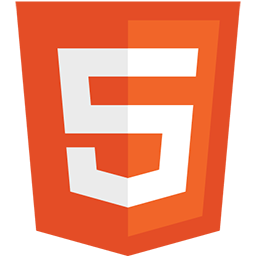
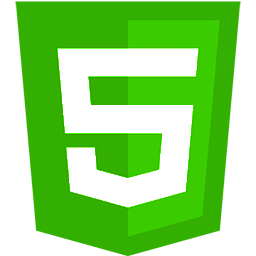
Add files via upload

diff --git a/partials/mobile.css b/partials/mobile.css
@@ -47,13 +47,13 @@ body {
           transition: 0.1s;
           position: relative; }
         body .container .heading .ham-but .first-line {
-          background-color: #288f00; }
+          background-color: #48ff00; }
         body .container .heading .ham-but .second-line {
           top: 7px;
-          background-color: #288f00; }
+          background-color: #48ff00; }
         body .container .heading .ham-but .third-line {
           top: 14px;
-          background-color: #288f00; }
+          background-color: #48ff00; }
         body .container .heading .ham-but .change1 {
           top: 8px;
           transform: rotate(45deg); }
@@ -61,7 +61,7 @@ body {
           transform: rotate(-45deg);
           top: 7px; }
     body .container .vm {
-      background: url("../img/logo-green.png");
+      /*background: url("../img/logo-green.png");*/
       background-size: cover;
       position: absolute;
       bottom: 18%;
@@ -111,22 +111,22 @@ body {
         background-color: rgba(31, 31, 31, 0.8); }
         body .container .content .home-page-content .name {
           display: none;
-          font: 400 3rem 'Roboto Mono', monospace; }
+          font: 400 2.5rem 'Roboto Mono', monospace; }
         body .container .content .home-page-content .name-2 {
-          font: 400 3rem 'Roboto Mono', monospace; }
+          font: 400 2.5rem 'Roboto Mono', monospace; }
         body .container .content .home-page-content .last-name {
           display: none;
-          font: 400 3rem 'Roboto Mono', monospace; }
+          font: 400 2.5rem 'Roboto Mono', monospace; }
         body .container .content .home-page-content .last-name-2 {
-          font: 400 3rem 'Roboto Mono', monospace; }
+          font: 400 2.5rem 'Roboto Mono', monospace; }
         body .container .content .home-page-content .web-developer {
           display: none;
-          font: 400 1.8rem 'Roboto Mono', monospace; }
+          font: 400 1.5rem 'Roboto Mono', monospace; }
         body .container .content .home-page-content .web-developer-2 {
-          font: 400 1.8rem 'Roboto Mono', monospace; }
+          font: 400 1.5rem 'Roboto Mono', monospace; }
         body .container .content .home-page-content .flashing {
           animation: flashing 1s infinite;
-          font: 400 3rem 'Roboto Mono', monospace; }
+          font: 400 2.5rem 'Roboto Mono', monospace; }
 @keyframes flashing {
   0% {
     opacity: 0%; }
@@ -260,14 +260,14 @@ body {
           height: 7%;
           transition: 1s; }
           body .container .content .contact-page .email img, body .container .content .contact-page .tel img, body .container .content .contact-page .link img, body .container .content .contact-page .insta img {
-            width: 10%;
+            width: 7%;
             float: left;
             margin: 0 0 0 10%; }
           body .container .content .contact-page .email p, body .container .content .contact-page .tel p, body .container .content .contact-page .link p, body .container .content .contact-page .insta p {
-            font: 200 0.8rem 'Roboto Mono', monospace;
+            font: 200 0.7rem 'Roboto Mono', monospace;
             float: left;
             color: #48ff00;
-            margin: 3% 0 0 10%; }
+            margin: 1% 0 0 10%; }
         body .container .content .contact-page .tel, body .container .content .contact-page .link, body .container .content .contact-page .insta {
           margin-top: 3%; }
 

diff --git a/scss/style.css b/scss/style.css
@@ -50,13 +50,13 @@ body {
           transition: 0.1s;
           position: relative; }
         body .container .heading .ham-but .first-line {
-          background-color: #288f00; }
+          background-color: #48ff00; }
         body .container .heading .ham-but .second-line {
           top: 7px;
-          background-color: #288f00; }
+          background-color: #48ff00; }
         body .container .heading .ham-but .third-line {
           top: 14px;
-          background-color: #288f00; }
+          background-color: #48ff00; }
         body .container .heading .ham-but .change1 {
           top: 8px;
           transform: rotate(45deg); }
@@ -64,7 +64,7 @@ body {
           transform: rotate(-45deg);
           top: 7px; }
     body .container .vm {
-      background: url("../img/logo-green.png");
+      /*background: url("../img/logo-green.png");*/
       background-size: cover;
       position: absolute;
       bottom: 18%;
@@ -114,22 +114,22 @@ body {
         background-color: rgba(31, 31, 31, 0.8); }
         body .container .content .home-page-content .name {
           display: none;
-          font: 400 3rem 'Roboto Mono', monospace; }
+          font: 400 2.5rem 'Roboto Mono', monospace; }
         body .container .content .home-page-content .name-2 {
-          font: 400 3rem 'Roboto Mono', monospace; }
+          font: 400 2.5rem 'Roboto Mono', monospace; }
         body .container .content .home-page-content .last-name {
           display: none;
-          font: 400 3rem 'Roboto Mono', monospace; }
+          font: 400 2.5rem 'Roboto Mono', monospace; }
         body .container .content .home-page-content .last-name-2 {
-          font: 400 3rem 'Roboto Mono', monospace; }
+          font: 400 2.5rem 'Roboto Mono', monospace; }
         body .container .content .home-page-content .web-developer {
           display: none;
-          font: 400 1.8rem 'Roboto Mono', monospace; }
+          font: 400 1.5rem 'Roboto Mono', monospace; }
         body .container .content .home-page-content .web-developer-2 {
-          font: 400 1.8rem 'Roboto Mono', monospace; }
+          font: 400 1.5rem 'Roboto Mono', monospace; }
         body .container .content .home-page-content .flashing {
           animation: flashing 1s infinite;
-          font: 400 3rem 'Roboto Mono', monospace; }
+          font: 400 2.5rem 'Roboto Mono', monospace; }
 @keyframes flashing {
   0% {
     opacity: 0%; }
@@ -263,14 +263,14 @@ body {
           height: 7%;
           transition: 1s; }
           body .container .content .contact-page .email img, body .container .content .contact-page .tel img, body .container .content .contact-page .link img, body .container .content .contact-page .insta img {
-            width: 10%;
+            width: 7%;
             float: left;
             margin: 0 0 0 10%; }
           body .container .content .contact-page .email p, body .container .content .contact-page .tel p, body .container .content .contact-page .link p, body .container .content .contact-page .insta p {
-            font: 200 0.8rem 'Roboto Mono', monospace;
+            font: 200 0.7rem 'Roboto Mono', monospace;
             float: left;
             color: #48ff00;
-            margin: 3% 0 0 10%; }
+            margin: 1% 0 0 10%; }
         body .container .content .contact-page .tel, body .container .content .contact-page .link, body .container .content .contact-page .insta {
           margin-top: 3%; }
 

diff --git a/partials/mobile.scss b/partials/mobile.scss
@@ -51,15 +51,15 @@ body  {
 					position: relative;
 				}
 				.first-line {
-					background-color: #288f00;
+					background-color: #48ff00;
 				}
 				.second-line {
 					top: 7px;
-					background-color: #288f00;
+					background-color: #48ff00;
 				}
 				.third-line {
 					top: 14px;
-					background-color: #288f00;
+					background-color: #48ff00;
 				}
 				.change1 {
 					top: 8px;
@@ -73,7 +73,7 @@ body  {
 			}
 		}
 		.vm {
-			background: url("../img/logo-green.png");
+			/*background: url("../img/logo-green.png");*/
 			background-size: cover;
 			position: absolute;
 			bottom: 18%;
@@ -130,30 +130,30 @@ body  {
 				background-color: rgba(31, 31, 31, 0.8);
 				.name {
 					display: none;
-					font: 400 3rem 'Roboto Mono', monospace;
+					font: 400 2.5rem 'Roboto Mono', monospace;
 				}
 				.name-2 {
-					font: 400 3rem 'Roboto Mono', monospace;
+					font: 400 2.5rem 'Roboto Mono', monospace;
 				}
 
 				.last-name {
 					display: none;
-					font: 400 3rem 'Roboto Mono', monospace;
+					font: 400 2.5rem 'Roboto Mono', monospace;
 				}
 				.last-name-2 {
-					font: 400 3rem 'Roboto Mono', monospace;
+					font: 400 2.5rem 'Roboto Mono', monospace;
 				}
 
 				.web-developer {
 					display: none;
-					font: 400 1.8rem 'Roboto Mono', monospace;
+					font: 400 1.5rem 'Roboto Mono', monospace;
 				}
 				.web-developer-2 {
-					font: 400 1.8rem 'Roboto Mono', monospace;
+					font: 400 1.5rem 'Roboto Mono', monospace;
 				}
 				.flashing {
 					animation: flashing 1s infinite;
-					font: 400 3rem 'Roboto Mono', monospace;
+					font: 400 2.5rem 'Roboto Mono', monospace;
 				}
 				@keyframes flashing {
 					0% {opacity: 0%;}
@@ -319,15 +319,15 @@ body  {
 					transition: 1s;
 
 					img {
-						width: 10%;
+						width: 7%;
 						float: left;
 						margin: 0 0 0 10%;
 					}
 					p {
-						font: 200 0.8rem 'Roboto Mono', monospace;
+						font: 200 0.7rem 'Roboto Mono', monospace;
 						float: left;
 						color: #48ff00;
-						margin: 3% 0 0 10%;
+						margin: 1% 0 0 10%;
 					}
 				}
 				.tel, .link, .insta {

diff --git a/html/nav.html b/html/nav.html
@@ -1,28 +1,28 @@
 <div class="nav-bar" id="nav-bar">
 
 
-		<div class="nav-line" id="Home">
+		<div class="nav-line" id="home">
 			<img src="icons/Homeon.png">
 			<p>Home</p>
 		</div>	
 
 		
-		<div class="nav-line" id="About">
+		<div class="nav-line" id="about">
 			<img src="icons/About.png">
 			<p>About me</p>
 		</div>
 
-		<div class="nav-line" id="Skills">
+		<div class="nav-line" id="skills">
 			<img src="icons/Skills.png">
 			<p>Skills</p>
 		</div>
 
-		<div class="nav-line" id="My work">
+		<div class="nav-line" id="my work">
 			<img src="icons/My work.png">
 			<p>My work</p>
 		</div>
 
-		<div class="nav-line" id="Contact">
+		<div class="nav-line" id="contact">
 			<img src="icons/Contact.png">
 			<p>Contact</p>
 		</div>

diff --git a/html/bottom.html b/html/bottom.html
@@ -21,7 +21,7 @@
 
 </div>
 <script src="js/main.js"></script> 
-<script src="js/skillsAnimation.js"></script> 
+
 			
 		</body>	
 	</html>
